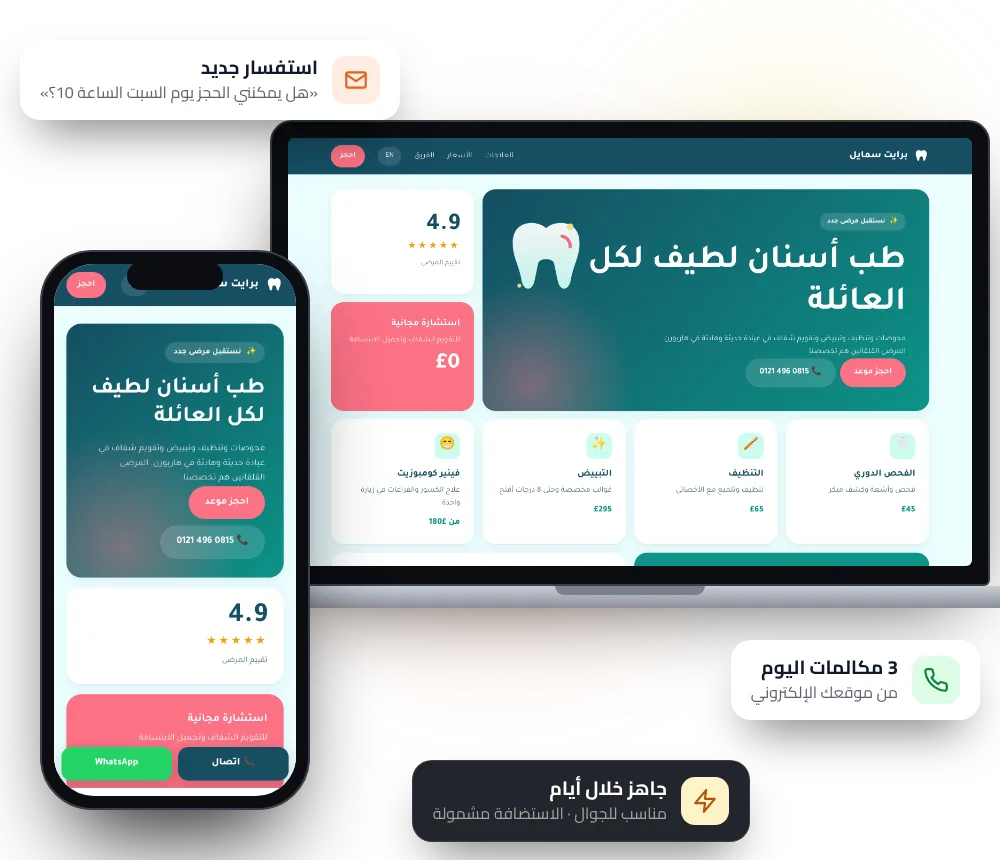
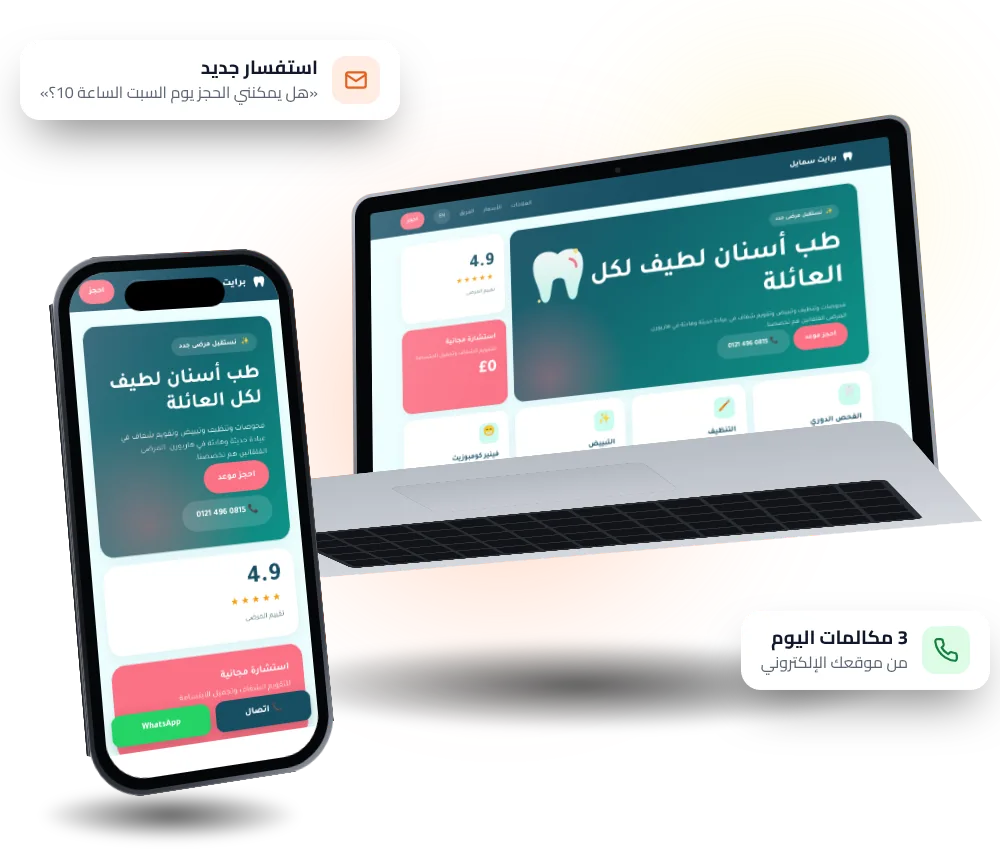
Service hero images: realistic angled 3D devices (#87)
Claude-Session: https://claude.ai/code/session_01DepNDCVsuamVfMZ9V1rBUS

diff --git a/jobradar-ar.html b/jobradar-ar.html
@@ -377,7 +377,7 @@ select.lang option{color:#15171C;background:#fff}
       <p style="margin:12px 0 0;font-size:.9rem;color:var(--on-ink-muted)">مجاناً لمدة 3 أيام مع تالا Essential. لا يُخصم أي مبلغ قبل ذلك، ويمكنك الإلغاء قبلها.</p>
       <p class="launch"><b>عرض الإطلاق: خصم 50%</b> حتى 31 يناير 2027، ويبقى سعرك الشهري ثابتاً 12 شهراً.</p>
     </div>
-    <img class="hero-art" src="images/services/jobradar-ar.webp" alt="يرسل JobRadar وظائف تناسب سيرتك مع نسبة التطابق ويكتب خطاب التقديم" width="1000" height="860" fetchpriority="high">
+    <img class="hero-art" src="images/services/jobradar-ar.webp?v=2" alt="يرسل JobRadar وظائف تناسب سيرتك مع نسبة التطابق ويكتب خطاب التقديم" width="1000" height="860" fetchpriority="high">
   </div>
 </div>
 

diff --git a/tala-ar.html b/tala-ar.html
@@ -415,7 +415,7 @@ select.lang option{color:#15171C;background:#fff}
       <p class="trial-sub">لا يُخصم أي مبلغ خلال 3 أيام، وإذا ألغيت قبلها فلن تدفع شيئاً.</p>
       <p class="launch"><b>عرض الإطلاق: خصم 50%</b> حتى 31 يناير 2027، ويبقى سعرك الشهري ثابتاً لمدة 12 شهراً.</p>
     </div>
-    <img class="hero-art" src="images/services/tala-ar.webp" alt="تالا في واتساب: ترسل بريدك وتحجز مواعيدك وتضبط تذكيراتك" width="1000" height="860" fetchpriority="high">
+    <img class="hero-art" src="images/services/tala-ar.webp?v=2" alt="تالا في واتساب: ترسل بريدك وتحجز مواعيدك وتضبط تذكيراتك" width="1000" height="860" fetchpriority="high">
   </div>
 </div>
 

diff --git a/jobradar.html b/jobradar.html
@@ -377,7 +377,7 @@ select.lang option{color:#15171C;background:#fff}
       <p style="margin:12px 0 0;font-size:.9rem;color:var(--on-ink-muted)">Free for 3 days with Tala Essential. Nothing is charged until then, and you can cancel before.</p>
       <p class="launch"><b>Launch offer: 50% off</b> until 31 January 2027. Your monthly price stays locked for 12 months.</p>
     </div>
-    <img class="hero-art" src="images/services/jobradar-en.webp" alt="JobRadar sends jobs that match your CV with a match score and writes your cover letter" width="1000" height="860" fetchpriority="high">
+    <img class="hero-art" src="images/services/jobradar-en.webp?v=2" alt="JobRadar sends jobs that match your CV with a match score and writes your cover letter" width="1000" height="860" fetchpriority="high">
   </div>
 </div>
 

diff --git a/menutap-ar.html b/menutap-ar.html
@@ -396,7 +396,7 @@ select.lang option{color:#15171C;background:#fff}
       </div>
       <p class="launch"><b>عرض الإطلاق: خصم 50%</b> على كل قوائم QR حتى 31 يناير 2027.</p>
     </div>
-    <img class="hero-art" src="images/services/menutap-ar.webp" alt="رمز QR من MenuTap على الطاولة والمنيو الذي يفتحه على الجوال، مع طلب أُرسل إلى المطبخ" width="1000" height="860" fetchpriority="high">
+    <img class="hero-art" src="images/services/menutap-ar.webp?v=2" alt="رمز QR من MenuTap على الطاولة والمنيو الذي يفتحه على الجوال، مع طلب أُرسل إلى المطبخ" width="1000" height="860" fetchpriority="high">
   </div>
 </div>
 

diff --git a/tala.html b/tala.html
@@ -415,7 +415,7 @@ select.lang option{color:#15171C;background:#fff}
       <p class="trial-sub">Nothing is charged for 3 days. Cancel before then and you pay nothing.</p>
       <p class="launch"><b>Launch offer: 50% off</b> until 31 January 2027. Your monthly price stays locked for 12 months.</p>
     </div>
-    <img class="hero-art" src="images/services/tala-en.webp" alt="Tala in WhatsApp: she sends your emails, books meetings and sets reminders" width="1000" height="860" fetchpriority="high">
+    <img class="hero-art" src="images/services/tala-en.webp?v=2" alt="Tala in WhatsApp: she sends your emails, books meetings and sets reminders" width="1000" height="860" fetchpriority="high">
   </div>
 </div>
 

diff --git a/webly-ar.html b/webly-ar.html
@@ -396,7 +396,7 @@ select.lang option{color:#15171C;background:#fff}
       </div>
       <p class="launch"><b>عرض الإطلاق: خصم 50%</b> على كل المواقع حتى 31 يناير 2027.</p>
     </div>
-    <img class="hero-art" src="images/services/webly-ar.webp" alt="موقع من Webly على الكمبيوتر والجوال، مع استفسار جديد من عميل" width="1000" height="860" fetchpriority="high">
+    <img class="hero-art" src="images/services/webly-ar.webp?v=2" alt="موقع من Webly على الكمبيوتر والجوال، مع استفسار جديد من عميل" width="1000" height="860" fetchpriority="high">
   </div>
 </div>
 

diff --git a/duo-ar.html b/duo-ar.html
@@ -380,7 +380,7 @@ select.lang option{color:#15171C;background:#fff}
       </div>
       <p class="launch"><b>عرض الإطلاق: خصم 50%</b> على كل الباقات حتى 31 يناير 2027.</p>
     </div>
-    <img class="hero-art" src="images/services/duo-ar.webp" alt="موقع مطعم من Duo على الكمبيوتر مع منيو QR مطابق على الجوال" width="1000" height="860" fetchpriority="high">
+    <img class="hero-art" src="images/services/duo-ar.webp?v=2" alt="موقع مطعم من Duo على الكمبيوتر مع منيو QR مطابق على الجوال" width="1000" height="860" fetchpriority="high">
   </div>
 </div>
 

diff --git a/menutap.html b/menutap.html
@@ -396,7 +396,7 @@ select.lang option{color:#15171C;background:#fff}
       </div>
       <p class="launch"><b>Launch offer: 50% off</b> every QR menu until 31 January 2027.</p>
     </div>
-    <img class="hero-art" src="images/services/menutap-en.webp" alt="A MenuTap QR code on a table and the menu it opens on a phone, with an order sent to the kitchen" width="1000" height="860" fetchpriority="high">
+    <img class="hero-art" src="images/services/menutap-en.webp?v=2" alt="A MenuTap QR code on a table and the menu it opens on a phone, with an order sent to the kitchen" width="1000" height="860" fetchpriority="high">
   </div>
 </div>
 

diff --git a/duo.html b/duo.html
@@ -380,7 +380,7 @@ select.lang option{color:#15171C;background:#fff}
       </div>
       <p class="launch"><b>Launch offer: 50% off</b> every bundle until 31 January 2027.</p>
     </div>
-    <img class="hero-art" src="images/services/duo-en.webp" alt="A Duo restaurant website on a laptop with its matching QR menu on a phone" width="1000" height="860" fetchpriority="high">
+    <img class="hero-art" src="images/services/duo-en.webp?v=2" alt="A Duo restaurant website on a laptop with its matching QR menu on a phone" width="1000" height="860" fetchpriority="high">
   </div>
 </div>
 

diff --git a/webly.html b/webly.html
@@ -396,7 +396,7 @@ select.lang option{color:#15171C;background:#fff}
       </div>
       <p class="launch"><b>Launch offer: 50% off</b> every website until 31 January 2027.</p>
     </div>
-    <img class="hero-art" src="images/services/webly-en.webp" alt="A Webly website on a laptop and a phone, with a new customer enquiry" width="1000" height="860" fetchpriority="high">
+    <img class="hero-art" src="images/services/webly-en.webp?v=2" alt="A Webly website on a laptop and a phone, with a new customer enquiry" width="1000" height="860" fetchpriority="high">
   </div>
 </div>
 
